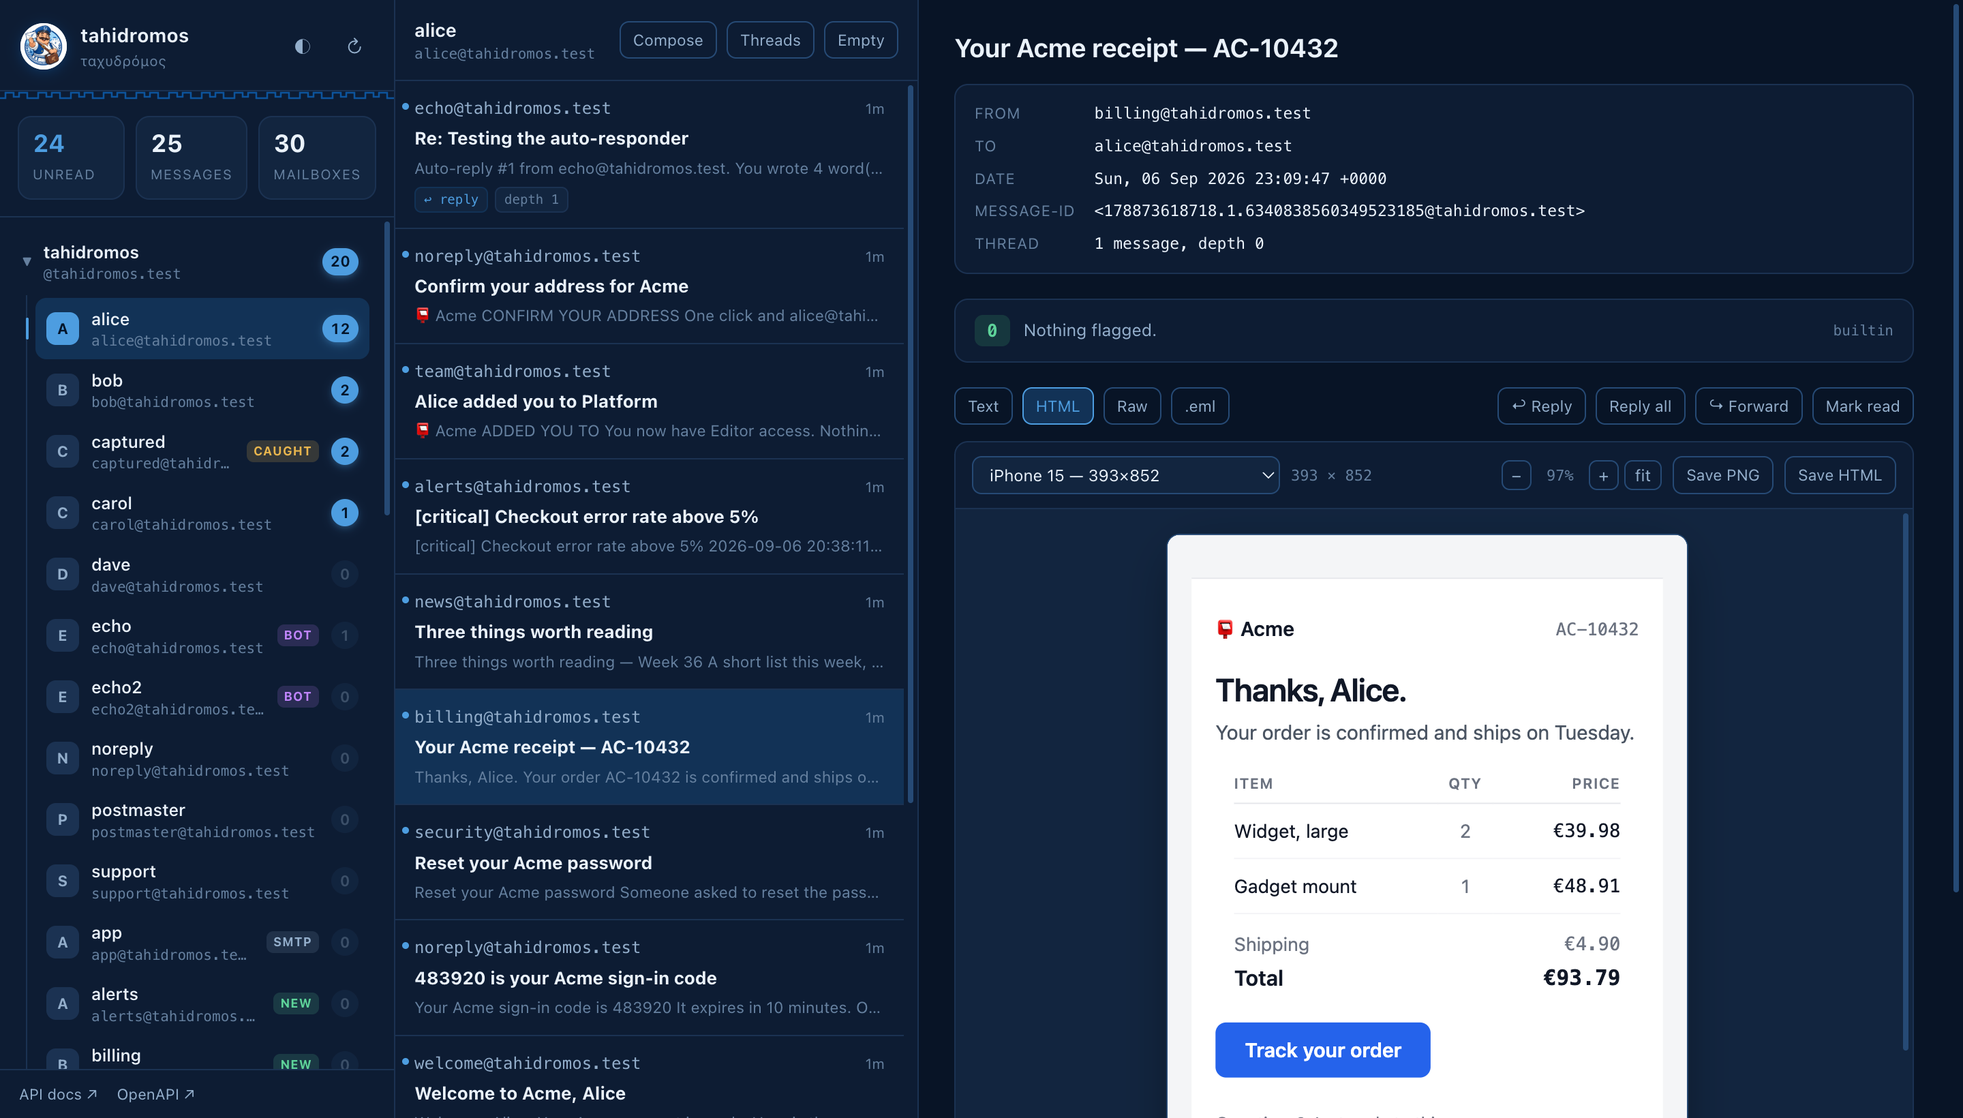
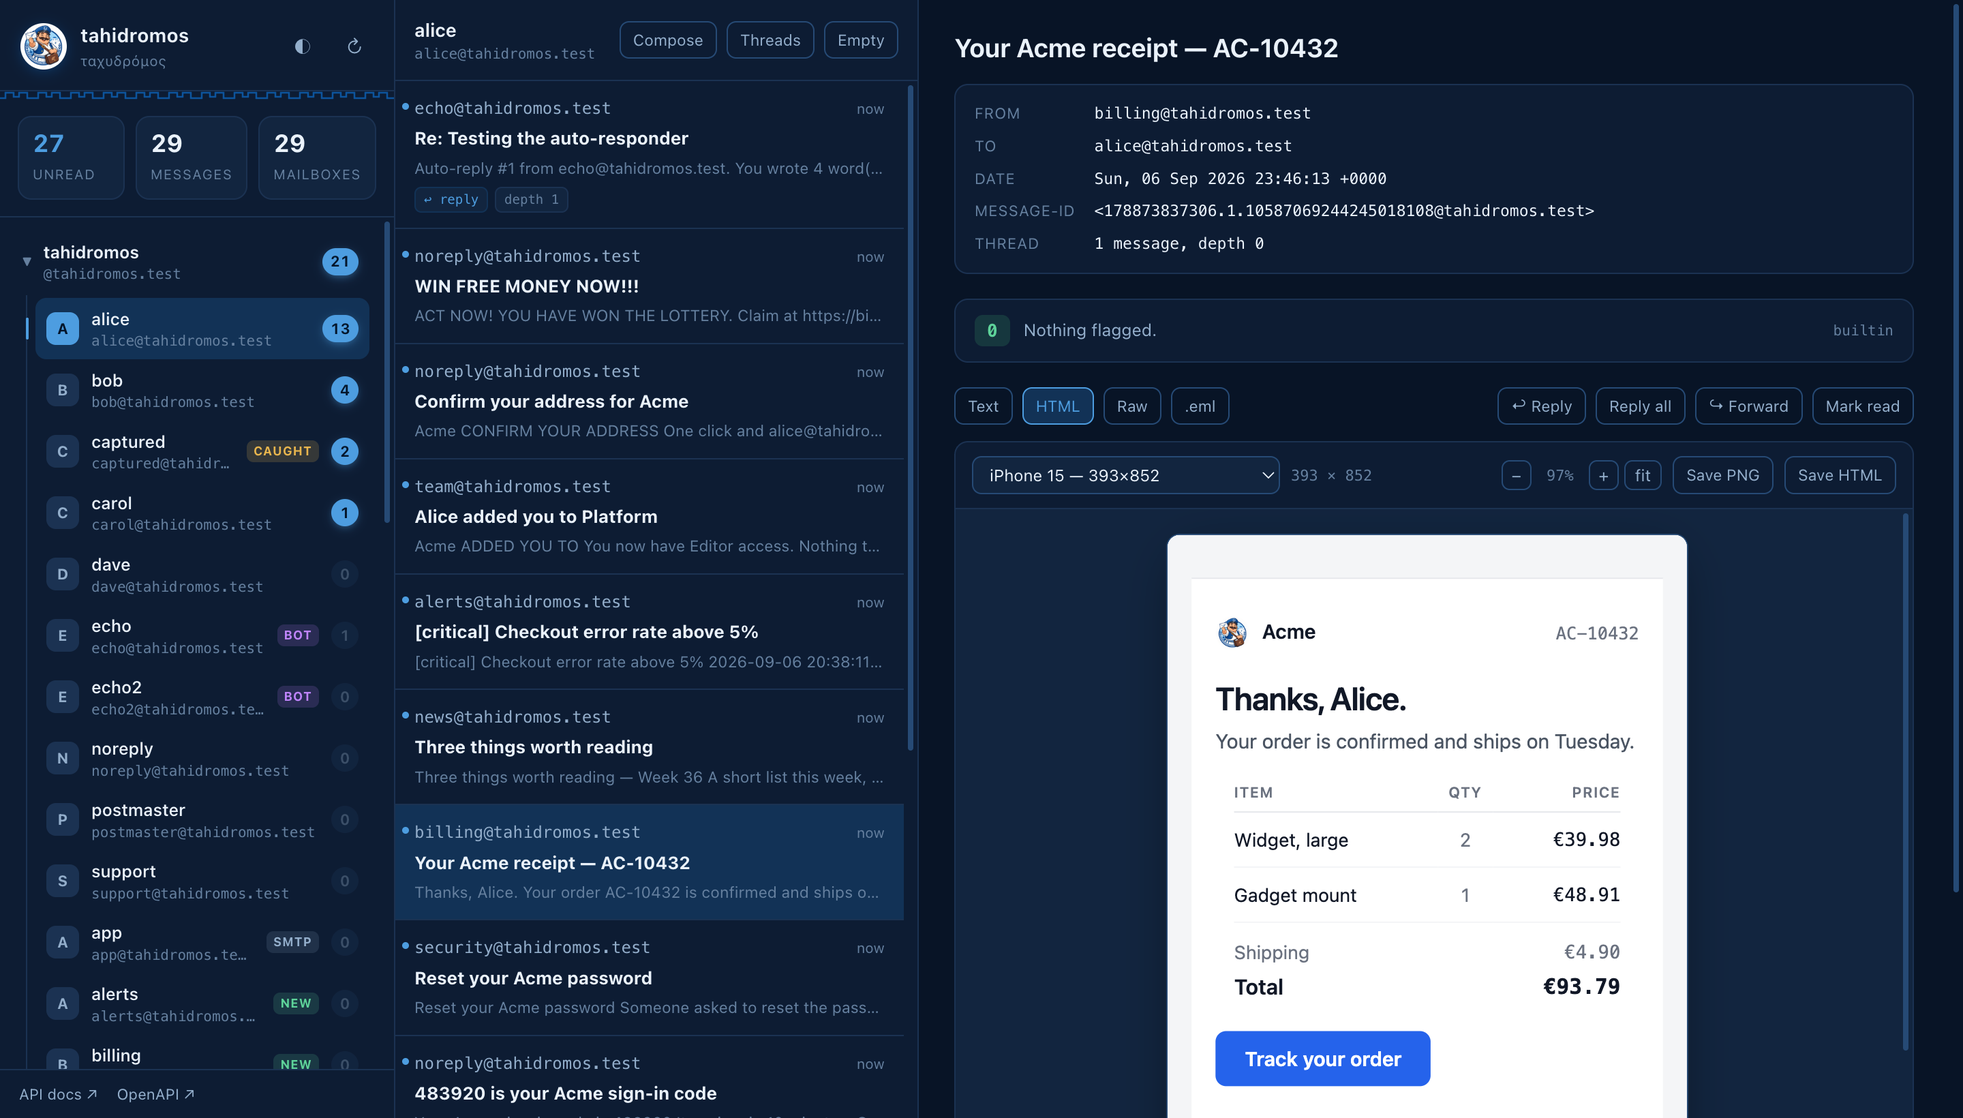
Put the mark everywhere, and fix what that exposed
The logo went into three places last time and I called it everywhere. It was
not. It is now in all eight email templates, both React Email sources, the
UI's empty states, the favicon and the README header.

Emails carry it inlined as a data URI rather than linking it. An external URL
would not load in the browser's PNG capture and would not survive a message
being saved as .eml and opened elsewhere; 13 KB of base64 buys a mark that
always renders.

Putting it in surfaced two real bugs:

  * the spam scorer counted the inlined image as HTML bulk, so every template
    that carried its own logo started scoring against the HTML-to-text ratio.
    Base64 payloads are now excluded from that measurement, which is correct
    regardless — an embedded image is not markup.

  * the templates declared `color-scheme: light dark` while implementing only
    a light design, and set no explicit colour on `body`. In a dark-mode
    client the user agent then coloured everything unstyled white, which put
    a white one-time code on a white card. Each template now declares the
    scheme it actually implements and sets its own text colour.

Also removes the stale competitive-table row in research1.md. It carried the
two ⚠ marks from before the inbound webhook and per-test isolation were
built, sat directly above the corrected row, and was the line people read.

The README gains the two sections the work had earned but not written: why
[…]

diff --git a/tahidromos/templates/otp.html b/tahidromos/templates/otp.html
@@ -1,7 +1,7 @@
 <!doctype html>
 <html lang="en">
 <head><meta charset="utf-8"><meta name="viewport" content="width=device-width,initial-scale=1">
-<meta name="color-scheme" content="light dark"><title>{{ subject }}</title><style>
+<meta name="color-scheme" content="light"><title>{{ subject }}</title><style>
   /* Clients that support <style> get comfortable small-screen padding.
      Everything still works without it — the layout is fluid either way. */
   @media only screen and (max-width:620px){
@@ -11,14 +11,14 @@
   }
 </style>
 </head>
-<body style="margin:0;padding:0;background:#f4f5f7;font-family:-apple-system,BlinkMacSystemFont,'Segoe UI',Roboto,Helvetica,Arial,sans-serif;">
+<body style="margin:0;padding:0;background:#f4f5f7;color:#111827;font-family:-apple-system,BlinkMacSystemFont,'Segoe UI',Roboto,Helvetica,Arial,sans-serif;">
 <span style="display:none!important;visibility:hidden;opacity:0;height:0;width:0;overflow:hidden;">{{ code }} is your {{ product }} sign-in code</span>
 <table role="presentation" width="100%" cellpadding="0" cellspacing="0" border="0" style="background:#f4f5f7;">
   <tr><td align="center" class="pad" style="padding:32px 12px;">
     <table role="presentation" width="100%" cellpadding="0" cellspacing="0" border="0" class="shell" style="max-width:600px;background:#ffffff;border-radius:12px;border:1px solid #e5e7eb;">
       <tr><td class="pad" style="padding:28px 32px 0;">
         <table role="presentation" cellpadding="0" cellspacing="0" border="0"><tr>
-          <td style="font-size:22px;line-height:1;padding-right:10px;">📮</td>
+          <td style="line-height:1;padding-right:10px;"><img src="{{{ logo }}}" alt="" width="30" height="30" style="display:inline-block;vertical-align:middle;border-radius:50%;width:30px;height:30px"></td>
           <td style="font-size:15px;font-weight:600;color:#111827;">{{ product }}</td>
         </tr></table>
       </td></tr>
@@ -28,7 +28,7 @@
       </td></tr>
       <tr><td align="center" style="padding:0 32px;">
         <table role="presentation" cellpadding="0" cellspacing="0" border="0" style="background:#f9fafb;border:1px solid #e5e7eb;border-radius:10px;">
-          <tr><td align="center" class="pad" style="padding:20px 34px;font-family:ui-monospace,SFMono-Regular,Menlo,monospace;font-size:34px;font-weight:700;letter-spacing:0.32em" class="code;color:#111827;">{{ code }}</td></tr>
+          <tr><td align="center" class="pad code" style="padding:20px 34px;font-family:ui-monospace,SFMono-Regular,Menlo,monospace;font-size:34px;font-weight:700;letter-spacing:0.32em;color:#111827;">{{ code }}</td></tr>
         </table>
       </td></tr>
       <tr><td align="center" class="pad" style="padding:22px 32px 0;">

diff --git a/tahidromos/static/index.html b/tahidromos/static/index.html
@@ -182,6 +182,8 @@ button{font:inherit;color:inherit;background:none;border:none;cursor:pointer}
 .empty{display:grid;place-items:center;height:100%;text-align:center;color:var(--dim);padding:40px}
 .empty>div{max-width:360px}
 .empty .big{font-size:42px;margin-bottom:12px;opacity:.5}
+.empty img.big{width:76px;height:76px;border-radius:50%;opacity:.45;
+  filter:grayscale(.35);margin:0 auto 14px;display:block}
 .empty h3{margin:0 0 6px;font-size:14px;color:var(--muted);font-weight:600}
 .empty p{margin:0;font-size:12.5px;line-height:1.7}
 .empty code{font-family:var(--mono);font-size:11.5px;background:var(--panel);padding:1px 5px;
@@ -300,7 +302,7 @@ button{font:inherit;color:inherit;background:none;border:none;cursor:pointer}
 
   <section class="reader" id="reader">
     <div class="empty"><div>
-      <div class="big">✉</div>
+      <img class="big" src="/logo.png" alt="">
       <h3>Nothing selected</h3>
       <p>Pick a mailbox, then a message. Mail <code>echo@tahidromos.test</code>
          and it will reply — then reply to that, and it will reply again.</p>
@@ -469,7 +471,7 @@ function messageRow(message){
 function renderMessages(){
   const list = state.messages;
   if(!list.length){
-    $("msgs").innerHTML = `<div class="empty"><div><div class="big">🕊</div>
+    $("msgs").innerHTML = `<div class="empty"><div><img class="big" src="/logo.png" alt="">
       <h3>Empty mailbox</h3><p>Nothing has been delivered to
       <code>${esc(state.user)}</code> yet.</p></div></div>`;
     return;
@@ -887,7 +889,9 @@ $("purge").onclick = async () => {
   const result = await api(`/messages/${encodeURIComponent(state.user)}`, {method:"DELETE"});
   toast(`Deleted ${result.deleted} message${result.deleted === 1 ? "" : "s"}`);
   state.uid = null;
-  $("reader").innerHTML = '<div class="empty"><div><div class="big">✉</div><h3>Mailbox emptied</h3></div></div>';
+  $("reader").innerHTML =
+    '<div class="empty"><div><img class="big" src="/logo.png" alt="">' +
+    '<h3>Mailbox emptied</h3></div></div>';
   loadMessages(); loadOverview();
 };
 $("theme").onclick = () => {

diff --git a/tahidromos/templates/alert.html b/tahidromos/templates/alert.html
@@ -1,7 +1,7 @@
 <!doctype html>
 <html lang="en">
 <head><meta charset="utf-8"><meta name="viewport" content="width=device-width,initial-scale=1">
-<meta name="color-scheme" content="light dark"><title>{{ subject }}</title><style>
+<meta name="color-scheme" content="dark"><title>{{ subject }}</title><style>
   /* Clients that support <style> get comfortable small-screen padding.
      Everything still works without it — the layout is fluid either way. */
   @media only screen and (max-width:620px){
@@ -11,13 +11,14 @@
   }
 </style>
 </head>
-<body style="margin:0;padding:0;background:#0b0d12;font-family:-apple-system,BlinkMacSystemFont,'Segoe UI',Roboto,Helvetica,Arial,sans-serif;">
+<body style="margin:0;padding:0;background:#0b0d12;color:#e8ecf4;font-family:-apple-system,BlinkMacSystemFont,'Segoe UI',Roboto,Helvetica,Arial,sans-serif;">
 <span style="display:none!important;visibility:hidden;opacity:0;height:0;width:0;overflow:hidden;">{{ severity }}: {{ title }}</span>
 <table role="presentation" width="100%" cellpadding="0" cellspacing="0" border="0" style="background:#0b0d12;">
   <tr><td align="center" class="pad" style="padding:32px 12px;">
     <table role="presentation" width="100%" cellpadding="0" cellspacing="0" border="0" class="shell" style="max-width:600px;background:#11141b;border-radius:12px;border:1px solid #262b36;">
       <tr><td class="pad" style="padding:26px 32px 0;">
         <table role="presentation" cellpadding="0" cellspacing="0" border="0"><tr>
+          <td style="padding-right:10px;line-height:1;"><img src="{{{ logo }}}" alt="" width="26" height="26" style="display:inline-block;vertical-align:middle;border-radius:50%;width:26px;height:26px"></td>
           <td style="background:{{ severity_color }};border-radius:6px;padding:4px 10px;font-size:11px;font-weight:700;letter-spacing:0.08em;color:#0b0d12;text-transform:uppercase;font-family:ui-monospace,Menlo,monospace;">{{ severity }}</td>
           <td style="padding-left:12px;font-size:12px;color:#8792a8;font-family:ui-monospace,Menlo,monospace;">{{ fired_at }}</td>
         </tr></table>

diff --git a/tahidromos/templates/password_reset.html b/tahidromos/templates/password_reset.html
@@ -1,7 +1,7 @@
 <!doctype html>
 <html lang="en">
 <head><meta charset="utf-8"><meta name="viewport" content="width=device-width,initial-scale=1">
-<meta name="color-scheme" content="light dark"><title>{{ subject }}</title><style>
+<meta name="color-scheme" content="light"><title>{{ subject }}</title><style>
   /* Clients that support <style> get comfortable small-screen padding.
      Everything still works without it — the layout is fluid either way. */
   @media only screen and (max-width:620px){
@@ -11,12 +11,12 @@
   }
 </style>
 </head>
-<body style="margin:0;padding:0;background:#f4f5f7;font-family:-apple-system,BlinkMacSystemFont,'Segoe UI',Roboto,Helvetica,Arial,sans-serif;">
+<body style="margin:0;padding:0;background:#f4f5f7;color:#111827;font-family:-apple-system,BlinkMacSystemFont,'Segoe UI',Roboto,Helvetica,Arial,sans-serif;">
 <span style="display:none!important;visibility:hidden;opacity:0;height:0;width:0;overflow:hidden;">Reset your {{ product }} password — link expires in {{ expires_minutes }} minutes</span>
 <table role="presentation" width="100%" cellpadding="0" cellspacing="0" border="0" style="background:#f4f5f7;">
   <tr><td align="center" class="pad" style="padding:32px 12px;">
     <table role="presentation" width="100%" cellpadding="0" cellspacing="0" border="0" class="shell" style="max-width:600px;background:#ffffff;border-radius:12px;border:1px solid #e5e7eb;">
-      <tr><td class="pad" style="padding:28px 32px 0;font-size:15px;font-weight:600;color:#111827;">📮 {{ product }}</td></tr>
+      <tr><td class="pad" style="padding:28px 32px 0;font-size:15px;font-weight:600;color:#111827;"><img src="{{{ logo }}}" alt="" width="26" height="26" style="display:inline-block;vertical-align:middle;border-radius:50%;margin-right:9px;width:26px;height:26px">{{ product }}</td></tr>
       <tr><td class="pad" style="padding:22px 32px 0;">
         <h1 style="margin:0 0 10px;font-size:24px;font-weight:600;color:#111827;letter-spacing:-0.02em;">Reset your password</h1>
         <p style="margin:0 0 20px;font-size:15px;line-height:1.6;color:#4b5563;">

diff --git a/tahidromos/templates/receipt.html b/tahidromos/templates/receipt.html
@@ -1,7 +1,7 @@
 <!doctype html>
 <html lang="en">
 <head><meta charset="utf-8"><meta name="viewport" content="width=device-width,initial-scale=1">
-<meta name="color-scheme" content="light dark"><title>{{ subject }}</title><style>
+<meta name="color-scheme" content="light"><title>{{ subject }}</title><style>
   /* Clients that support <style> get comfortable small-screen padding.
      Everything still works without it — the layout is fluid either way. */
   @media only screen and (max-width:620px){
@@ -11,14 +11,14 @@
   }
 </style>
 </head>
-<body style="margin:0;padding:0;background:#f4f5f7;font-family:-apple-system,BlinkMacSystemFont,'Segoe UI',Roboto,Helvetica,Arial,sans-serif;">
+<body style="margin:0;padding:0;background:#f4f5f7;color:#111827;font-family:-apple-system,BlinkMacSystemFont,'Segoe UI',Roboto,Helvetica,Arial,sans-serif;">
 <span style="display:none!important;visibility:hidden;opacity:0;height:0;width:0;overflow:hidden;">Receipt for order {{ order_id }} — {{ total }}</span>
 <table role="presentation" width="100%" cellpadding="0" cellspacing="0" border="0" style="background:#f4f5f7;">
   <tr><td align="center" class="pad" style="padding:32px 12px;">
     <table role="presentation" width="100%" cellpadding="0" cellspacing="0" border="0" class="shell" style="max-width:600px;background:#ffffff;border-radius:12px;border:1px solid #e5e7eb;">
       <tr><td class="pad" style="padding:28px 32px 0;">
         <table role="presentation" width="100%" cellpadding="0" cellspacing="0" border="0"><tr>
-          <td style="font-size:15px;font-weight:600;color:#111827;">📮 {{ product }}</td>
+          <td style="font-size:15px;font-weight:600;color:#111827;"><img src="{{{ logo }}}" alt="" width="26" height="26" style="display:inline-block;vertical-align:middle;border-radius:50%;margin-right:9px;width:26px;height:26px">{{ product }}</td>
           <td align="right" style="font-size:13px;color:#6b7280;font-family:ui-monospace,Menlo,monospace;">{{ order_id }}</td>
         </tr></table>
       </td></tr>

diff --git a/tahidromos/templates/digest.html b/tahidromos/templates/digest.html
@@ -1,7 +1,7 @@
 <!doctype html>
 <html lang="en">
 <head><meta charset="utf-8"><meta name="viewport" content="width=device-width,initial-scale=1">
-<meta name="color-scheme" content="light dark"><title>{{ subject }}</title><style>
+<meta name="color-scheme" content="light"><title>{{ subject }}</title><style>
   /* Clients that support <style> get comfortable small-screen padding.
      Everything still works without it — the layout is fluid either way. */
   @media only screen and (max-width:620px){
@@ -11,14 +11,14 @@
   }
 </style>
 </head>
-<body style="margin:0;padding:0;background:#f4f5f7;font-family:-apple-system,BlinkMacSystemFont,'Segoe UI',Roboto,Helvetica,Arial,sans-serif;">
+<body style="margin:0;padding:0;background:#f4f5f7;color:#111827;font-family:-apple-system,BlinkMacSystemFont,'Segoe UI',Roboto,Helvetica,Arial,sans-serif;">
 <span style="display:none!important;visibility:hidden;opacity:0;height:0;width:0;overflow:hidden;">{{ preheader }}</span>
 <table role="presentation" width="100%" cellpadding="0" cellspacing="0" border="0" style="background:#f4f5f7;">
   <tr><td align="center" class="pad" style="padding:32px 12px;">
     <table role="presentation" width="100%" cellpadding="0" cellspacing="0" border="0" class="shell" style="max-width:600px;background:#ffffff;border-radius:12px;border:1px solid #e5e7eb;">
       <tr><td class="pad" style="padding:28px 32px 0;">
         <table role="presentation" width="100%" cellpadding="0" cellspacing="0" border="0"><tr>
-          <td style="font-size:15px;font-weight:600;color:#111827;">📮 {{ product }}</td>
+          <td style="font-size:15px;font-weight:600;color:#111827;"><img src="{{{ logo }}}" alt="" width="26" height="26" style="display:inline-block;vertical-align:middle;border-radius:50%;margin-right:9px;width:26px;height:26px">{{ product }}</td>
           <td align="right" style="font-size:12px;color:#6b7280;">{{ period }}</td>
         </tr></table>
       </td></tr>

diff --git a/tahidromos/templates/welcome.html b/tahidromos/templates/welcome.html
@@ -3,8 +3,8 @@
 <head>
 <meta charset="utf-8">
 <meta name="viewport" content="width=device-width, initial-scale=1">
-<meta name="color-scheme" content="light dark">
-<meta name="supported-color-schemes" content="light dark">
+<meta name="color-scheme" content="light">
+<meta name="supported-color-schemes" content="light">
 <title>{{ subject }}</title>
 <style>
   /* Clients that support <style> get comfortable small-screen padding.
@@ -16,7 +16,7 @@
   }
 </style>
 </head>
-<body style="margin:0;padding:0;background:#f4f5f7;font-family:-apple-system,BlinkMacSystemFont,'Segoe UI',Roboto,Helvetica,Arial,sans-serif;">
+<body style="margin:0;padding:0;background:#f4f5f7;color:#111827;font-family:-apple-system,BlinkMacSystemFont,'Segoe UI',Roboto,Helvetica,Arial,sans-serif;">
 <span style="display:none!important;visibility:hidden;opacity:0;height:0;width:0;overflow:hidden;">{{ preheader }}</span>
 <table role="presentation" width="100%" cellpadding="0" cellspacing="0" border="0" style="background:#f4f5f7;">
   <tr><td align="center" class="pad" style="padding:32px 12px;">
@@ -24,7 +24,7 @@
 
       <tr><td class="pad" style="padding:28px 32px 0;">
         <table role="presentation" cellpadding="0" cellspacing="0" border="0"><tr>
-          <td style="font-size:22px;line-height:1;padding-right:10px;">📮</td>
+          <td style="line-height:1;padding-right:10px;"><img src="{{{ logo }}}" alt="" width="30" height="30" style="display:inline-block;vertical-align:middle;border-radius:50%;width:30px;height:30px"></td>
           <td style="font-size:15px;font-weight:600;color:#111827;letter-spacing:-0.01em;">{{ product }}</td>
         </tr></table>
       </td></tr>

diff --git a/tahidromos/templates/verify_email.html b/tahidromos/templates/verify_email.html
@@ -50,8 +50,12 @@
                           <td>
                             <p
                               style="font-size:15px;line-height:24px;font-weight:600;color:#111827;margin:0;margin-top:0;margin-bottom:0;margin-left:0;margin-right:0">
-                              📮
-                              <!-- -->{{ product }}
+                              <img
+                                alt=""
+                                height="26"
+                                src="{{ logo }}"
+                                style="display:inline-block;outline:none;border:none;text-decoration:none;vertical-align:middle;border-radius:50%;margin-right:9px;width:26px;height:26px"
+                                width="26" />{{ product }}
                             </p>
                             <h1
                               style="font-size:24px;font-weight:600;color:#111827;letter-spacing:-0.02em;margin:20px 0 10px">

diff --git a/templates/react-email/emails/VerifyEmail.jsx b/templates/react-email/emails/VerifyEmail.jsx
@@ -1,6 +1,7 @@
 import {
-  Body, Button, Container, Head, Html, Preview, Section, Text, Heading,
+  Body, Button, Container, Head, Html, Img, Preview, Section, Text, Heading,
 } from "@react-email/components";
+import { LOGO, markStyle } from "./brand.js";
 import * as React from "react";
 
 /** Address confirmation — the other half of the sign-up flow. */
@@ -12,7 +13,10 @@ export default function VerifyEmail() {
       <Body style={body}>
         <Container style={card}>
           <Section style={pad}>
-            <Text style={brand}>📮 {"{{ product }}"}</Text>
+            <Text style={brand}>
+              <Img src={LOGO} alt="" width="26" height="26" style={markStyle} />
+              {"{{ product }}"}
+            </Text>
             <Heading style={heading}>Confirm your address</Heading>
             <Text style={paragraph}>
               One click and {"{{ email }}"} is verified. The link is good for{" "}

diff --git a/tahidromos/templates/invite.html b/tahidromos/templates/invite.html
@@ -50,8 +50,12 @@
                           <td>
                             <p
                               style="font-size:15px;line-height:24px;font-weight:600;color:#111827;margin:26px 0 0;margin-top:26px;margin-right:0;margin-bottom:0;margin-left:0">
-                              📮
-                              <!-- -->{{ product }}
+                              <img
+                                alt=""
+                                height="26"
+                                src="{{ logo }}"
+                                style="display:inline-block;outline:none;border:none;text-decoration:none;vertical-align:middle;border-radius:50%;margin-right:9px;width:26px;height:26px"
+                                width="26" />{{ product }}
                             </p>
                           </td>
                         </tr>

diff --git a/templates/react-email/emails/Invite.jsx b/templates/react-email/emails/Invite.jsx
@@ -1,7 +1,8 @@
 import {
-  Body, Button, Container, Head, Hr, Html, Preview,
+  Body, Button, Container, Head, Hr, Html, Img, Preview,
   Section, Text, Heading, Link, Row, Column,
 } from "@react-email/components";
+import { LOGO, markStyle } from "./brand.js";
 import * as React from "react";
 
 /**
@@ -20,7 +21,10 @@ export default function Invite() {
       <Body style={body}>
         <Container style={card}>
           <Section style={pad}>
-            <Text style={brand}>📮 {"{{ product }}"}</Text>
+            <Text style={brand}>
+              <Img src={LOGO} alt="" width="26" height="26" style={markStyle} />
+              {"{{ product }}"}
+            </Text>
           </Section>
 
           <Section style={pad}>

diff --git a/templates/react-email/export.jsx b/templates/react-email/export.jsx
@@ -54,7 +54,10 @@ const slug = (file) =>
       .replace(/([a-z0-9])([A-Z])/g, "$1_$2")
       .toLowerCase();
 
-const files = (await readdir(emailsDir)).filter((f) => /\.[jt]sx?$/.test(f)).sort();
+// Components are PascalCase; anything lowercase is a shared helper.
+const files = (await readdir(emailsDir))
+  .filter((f) => /^[A-Z].*\.[jt]sx?$/.test(f))
+  .sort();
 if (files.length === 0) {
   console.error("no email components in emails/");
   process.exit(1);
